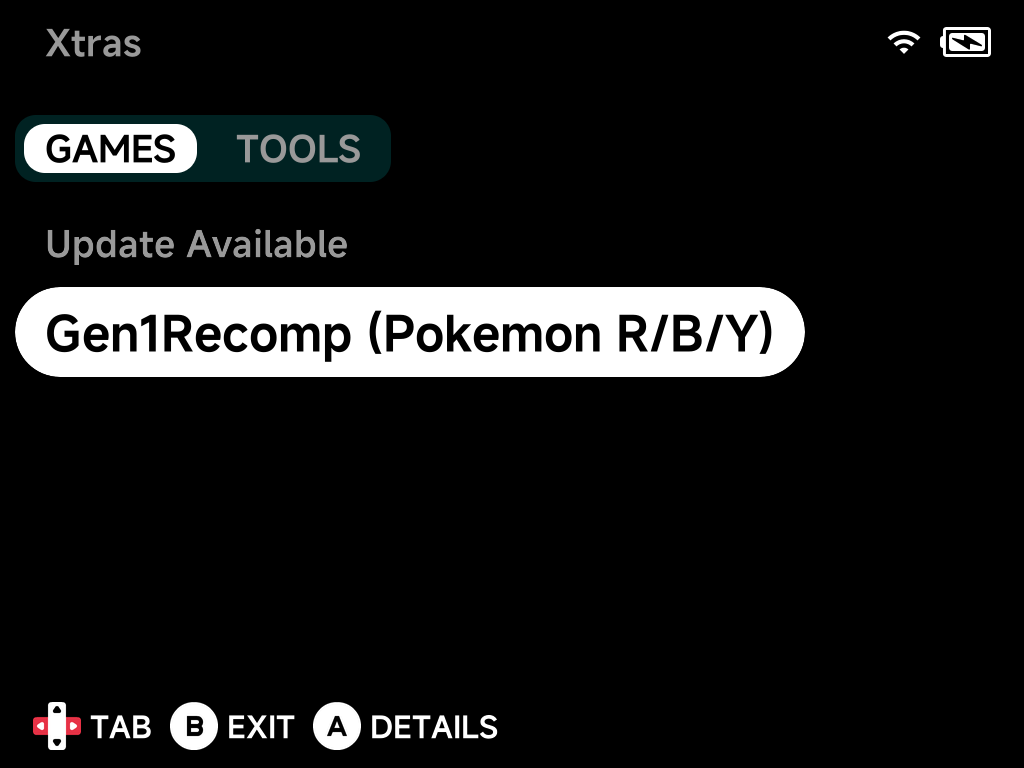
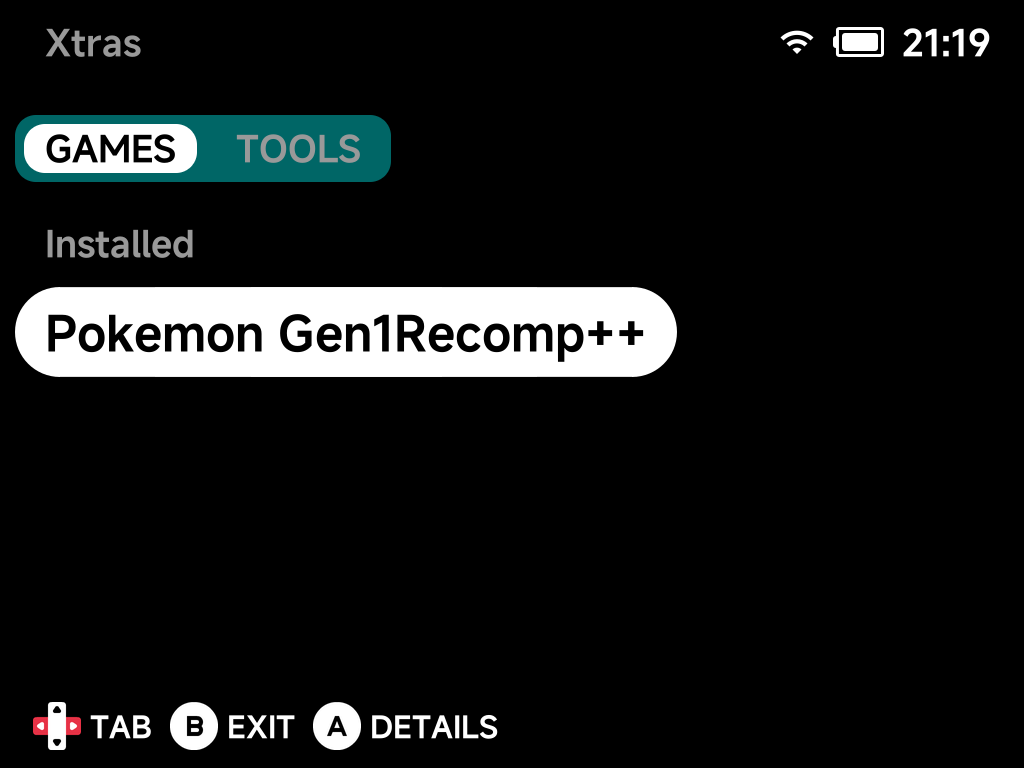
docs(xtras): Pokemon Gen1Recomp++ section with launcher controls, Gen 2 and voxel notes, refreshed screenshots

diff --git a/docs/apps/xtras.md b/docs/apps/xtras.md
@@ -30,6 +30,31 @@ install would. Put your games in `Roms/Sony Playstation Portable (PSP)`
 afterwards. Community-pak [support notes](../emulators/additional.md)
 apply.
 
+## Pokémon Gen1Recomp
+
+**Pokemon Gen1Recomp++** in the **GAMES** tab installs
+[bryanthaboi/gen1recomp](https://github.com/bryanthaboi/gen1recomp), a
+native LÖVE2D recreation of Pokémon Red, Blue, Yellow, Gold, Silver and
+Crystal, together with three bundled mods: Stadium battle effects, Running
+Shoes and Wilds of Kanto. The 3D voxel overworld mods offered in its mod
+browser need far more memory than these 1 GB devices have, so they are
+not bundled and not recommended. You supply your own US
+cartridge ROMs in `Roms/Game Boy` or `Roms/Game Boy Color`; the installer
+copies recognised dumps into the game for you (Crystal 1.0 must be copied
+by hand, only the 1.1 dump is recognised).
+
+The game opens on its own launcher (ROM import, mods, saves). It is built
+for a mouse pointer, so on a handheld it works like this:
+
+| Button | Action |
+|---|---|
+| D-pad, A | Move between controls and select |
+| L1 / R1 | Previous / next tab |
+| L2 / R2 | Scroll lists up / down |
+| Y | Switch between menu navigation and a free pointer cursor |
+| Select | Open the on-screen keyboard (search, names, URLs) |
+| Start | Play the selected version |
+
 ## PortMaster
 
 [PortMaster](https://portmaster.games/) — the community launcher for game
